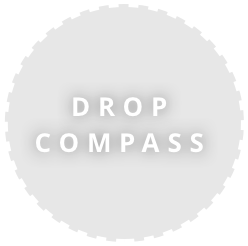
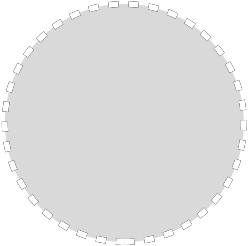
dot vs drop

diff --git a/src/scenes/gameassets.js b/src/scenes/gameassets.js
@@ -2,6 +2,7 @@ var circle;
 var hcircle;
 var compass_img;
 var compass_dot_img;
+var compass_drop_img;
 var needle_img;
 var mag_n_tip_img;
 var mag_n_img;
@@ -9,8 +10,10 @@ var mag_s_tip_img;
 var mag_s_img;
 var iron_filings_img;
 var iron_filings_dot_img;
+var iron_filings_drop_img;
 var mag_film_img;
 var mag_film_dot_img;
+var mag_film_drop_img;
 var sidebar_tools_img;
 var sidebar_guess_img;
 var tools_btn_img;
@@ -35,6 +38,8 @@ var bake = function()
   compass_img.src = "assets/compass.png";
   compass_dot_img = new Image();
   compass_dot_img.src = "assets/compass_dot.png";
+  compass_drop_img = new Image();
+  compass_drop_img.src = "assets/compass_drop.png";
   /*
   compass_img = GenIcon(200,200);
   compass_img.context.strokeStyle = "#1A7CAF"; //dark blue
@@ -88,6 +93,8 @@ var bake = function()
   iron_filings_img.src = "assets/iron_filings.png";
   iron_filings_dot_img = new Image();
   iron_filings_dot_img.src = "assets/iron_filings_dot.png";
+  iron_filings_drop_img = new Image();
+  iron_filings_drop_img.src = "assets/iron_filings_drop.png";
   /*
   iron_filings_img = GenIcon(300,300);
   iron_filings_img.context.strokeStyle = "#1A7CAF"; //dark blue
@@ -115,6 +122,8 @@ var bake = function()
   mag_film_img.src = "assets/mag_film.png";
   mag_film_dot_img = new Image();
   mag_film_dot_img.src = "assets/mag_film_dot.png";
+  mag_film_drop_img = new Image();
+  mag_film_drop_img.src = "assets/mag_film_drop.png";
   /*
   mag_film_img = GenIcon(300,300);
   mag_film_img.context.strokeStyle = "#2EBE85"; //dark green

diff --git a/src/scenes/loadingScene.js b/src/scenes/loadingScene.js
@@ -35,11 +35,14 @@ var LoadingScene = function(game, stage)
     img_srcs.push("assets/mag_blue.png");
     img_srcs.push("assets/compass.png");
     img_srcs.push("assets/compass_dot.png");
+    img_srcs.push("assets/compass_drop.png");
     img_srcs.push("assets/needle.png");
     img_srcs.push("assets/iron_filings.png");
     img_srcs.push("assets/iron_filings_dot.png");
+    img_srcs.push("assets/iron_filings_drop.png");
     img_srcs.push("assets/mag_film.png");
     img_srcs.push("assets/mag_film_dot.png");
+    img_srcs.push("assets/mag_film_drop.png");
     img_srcs.push("assets/sidebar_tools.png");
     img_srcs.push("assets/sidebar_guess.png");
     img_srcs.push("assets/guess_btn.png");
